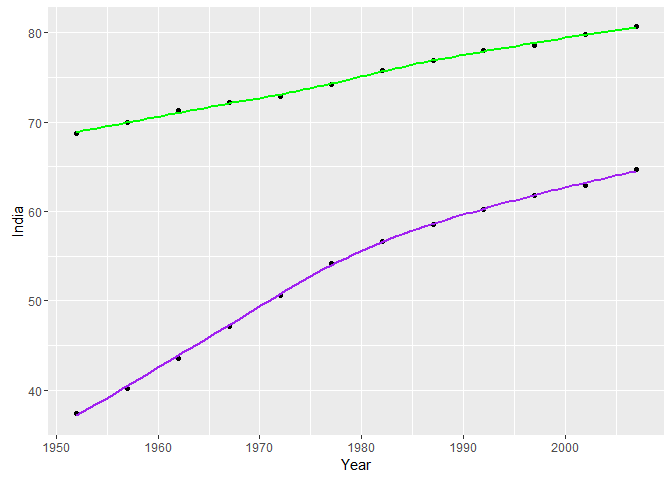
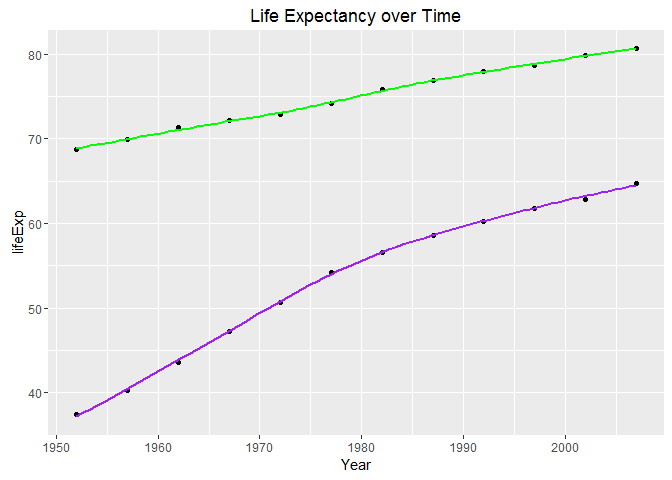
2 tasks done

diff --git a/hw04_tidy-data-joins/hw04_tidy-data-joins.md b/hw04_tidy-data-joins/hw04_tidy-data-joins.md
@@ -18,14 +18,14 @@ General data reshaping and relationship to aggregation
 
 ### Activity \#2
 
-#### A tibble with one row per year and columns for life expectancy
+#### Life expectancy for different countries by year
 
 ``` r
-my_gap <- gapminder %>% 
+different_countries <- gapminder %>% 
   select( year , country , lifeExp ) %>% 
   filter( country %in% c( "India" , "Canada" , "United States" , "China" , "Japan" ) )
 
-le_by_year <- my_gap %>% 
+le_by_year <- different_countries %>% 
   spread ( key = "country" , value = "lifeExp" ) %>% 
   rename( Year = year )
 
@@ -50,9 +50,81 @@ knitr::kable( le_by_year )
 ``` r
 le_by_year %>% ggplot( ) +
   geom_point( aes( x = Year , y = India ) ) +  
-  geom_smooth( aes( x = Year , y = India) , color = "Purple" ,  se = FALSE ) +
+  geom_smooth( aes( x = Year , y = India ) , color = "Purple" , se = FALSE ) +
   geom_point( aes( x = Year , y = Canada ) ) +  
-  geom_smooth( aes( x = Year , y = Canada) , color = "Green" ,  se = FALSE ) 
+  geom_smooth( aes( x = Year , y = Canada ) , color = "Green" , se = FALSE ) +
+  labs( title = "Life Expectancy over Time" , x = "Year" , y = "lifeExp" )
 ```
 
 ![](hw04_tidy-data-joins_files/figure-markdown_github/unnamed-chunk-2-1.png)
+
+Activity \#3
+------------
+
+#### Mean life expectancy for all years by continent
+
+``` r
+all_continents <- gapminder %>% 
+  select( continent , year , lifeExp ) %>% 
+  group_by( year , continent ) %>% 
+  summarise( mean_lifeExp = mean( lifeExp ) ) %>% 
+  arrange( continent )
+all_continents
+```
+
+    ## Source: local data frame [60 x 3]
+    ## Groups: year [12]
+    ## 
+    ##     year continent mean_lifeExp
+    ##    <int>    <fctr>        <dbl>
+    ## 1   1952    Africa     39.13550
+    ## 2   1957    Africa     41.26635
+    ## 3   1962    Africa     43.31944
+    ## 4   1967    Africa     45.33454
+    ## 5   1972    Africa     47.45094
+    ## 6   1977    Africa     49.58042
+    ## 7   1982    Africa     51.59287
+    ## 8   1987    Africa     53.34479
+    ## 9   1992    Africa     53.62958
+    ## 10  1997    Africa     53.59827
+    ## # ... with 50 more rows
+
+``` r
+le_continents <- all_continents %>% 
+  spread( key = "continent" , value = "mean_lifeExp") %>% 
+  rename( Year = year )
+
+knitr::kable( le_continents )
+```
+
+|  Year|    Africa|  Americas|      Asia|    Europe|  Oceania|
+|-----:|---------:|---------:|---------:|---------:|--------:|
+|  1952|  39.13550|  53.27984|  46.31439|  64.40850|  69.2550|
+|  1957|  41.26635|  55.96028|  49.31854|  66.70307|  70.2950|
+|  1962|  43.31944|  58.39876|  51.56322|  68.53923|  71.0850|
+|  1967|  45.33454|  60.41092|  54.66364|  69.73760|  71.3100|
+|  1972|  47.45094|  62.39492|  57.31927|  70.77503|  71.9100|
+|  1977|  49.58042|  64.39156|  59.61056|  71.93777|  72.8550|
+|  1982|  51.59287|  66.22884|  62.61794|  72.80640|  74.2900|
+|  1987|  53.34479|  68.09072|  64.85118|  73.64217|  75.3200|
+|  1992|  53.62958|  69.56836|  66.53721|  74.44010|  76.9450|
+|  1997|  53.59827|  71.15048|  68.02052|  75.50517|  78.1900|
+|  2002|  53.32523|  72.42204|  69.23388|  76.70060|  79.7400|
+|  2007|  54.80604|  73.60812|  70.72848|  77.64860|  80.7195|
+
+``` r
+le_continents %>% ggplot( ) +
+  geom_point( aes( x = Year , y = Africa ) ) +
+  geom_smooth( aes( x = Year , y = Africa ) , color = "red" , se = FALSE ) +
+  geom_point( aes( x = Year , y = Americas ) ) +
+  geom_smooth( aes( x = Year , y = Americas ) , color = "orange" , se = FALSE ) +
+  geom_point( aes( x = Year , y = Asia ) ) +
+  geom_smooth( aes( x = Year , y = Asia ) , color = "green" , se = FALSE ) +
+  geom_point( aes( x = Year , y = Europe ) ) +
+  geom_smooth( aes( x = Year , y = Europe ) , color = "brown" , se = FALSE ) +
+  geom_point( aes( x = Year , y = Oceania ) ) + 
+  geom_smooth( aes( x = Year , y = Oceania ) , color = "Purple" , se = FALSE ) +
+  labs( title = "Life Expectancy over Time" , x = "Year" , y = "Life Expectancy" )
+```
+
+![](hw04_tidy-data-joins_files/figure-markdown_github/unnamed-chunk-3-1.png)

diff --git a/hw03_gapminder-ggplot2-dplyr/hw03_gapminder-ggplot2-dplyr.md b/hw03_gapminder-ggplot2-dplyr/hw03_gapminder-ggplot2-dplyr.md
@@ -1,7 +1,7 @@
 Gapminder, ggplot2 and dplyr single table verbs
 ================
 Gokul Raj Suresh Kumar
-2016-10-04
+2016-10-09
 
 Manipulate and Explore Gapminder with dplyr & ggplot2
 =====================================================
@@ -113,7 +113,7 @@ le_over_time %>%
   ggplot( aes( x = year , y = avg_life_exp ) ) + 
   geom_point( aes( color = continent ) ) + 
   geom_line( aes( color =   continent ) ) +
-  labs( title = "Life Expectancy over Time" , x = "Continent" , y = "Life Expectancy" )
+  labs( title = "Life Expectancy over Time" , x = "Year" , y = "Life Expectancy" )
 ```
 
 ![](hw03_gapminder-ggplot2-dplyr_files/figure-markdown_github/unnamed-chunk-7-1.png)
